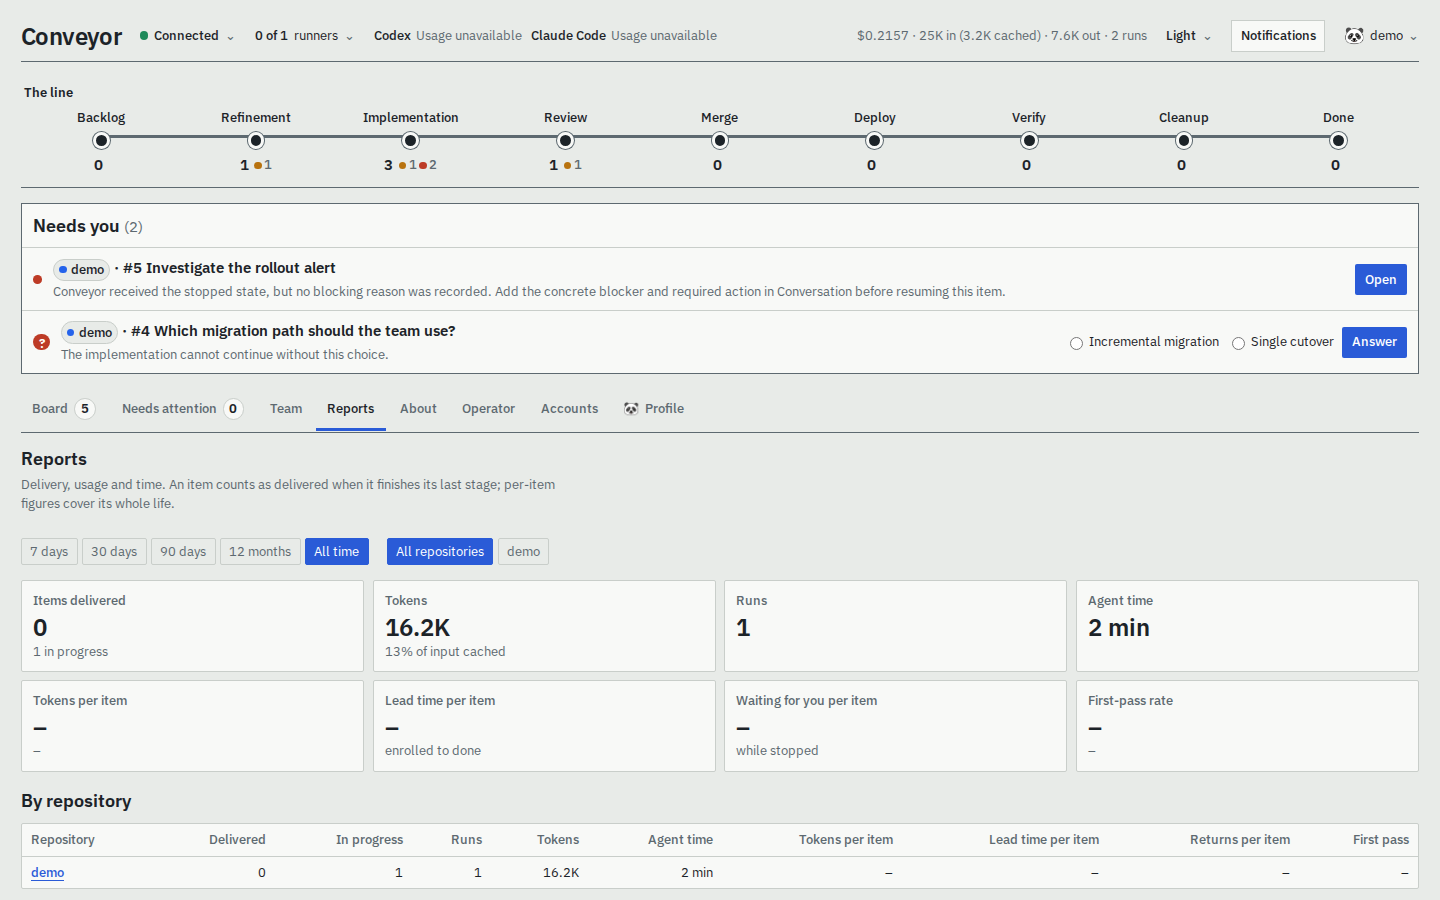
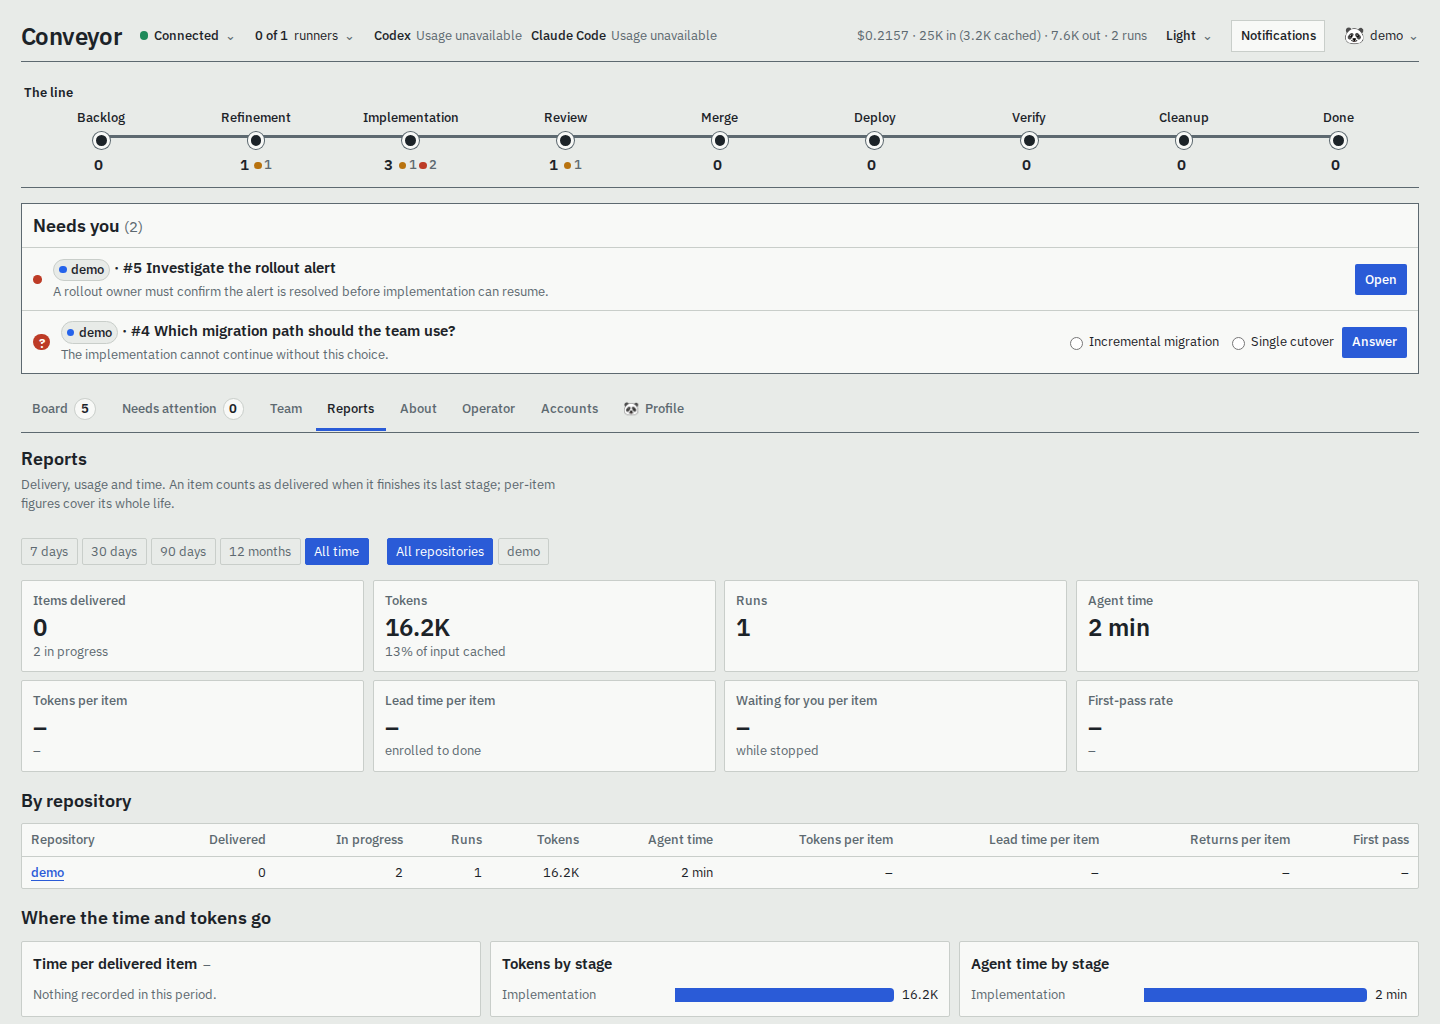
fix: fit dashboard screenshot content

diff --git a/scripts/regenerate-screenshots.ts b/scripts/regenerate-screenshots.ts
@@ -423,6 +423,21 @@ async function seedDemo(home: string): Promise<void> {
       },
     });
     store.completeStageTransition("demo-transition-1");
+    store.beginStageTransition({
+      id: "demo-transition-5",
+      issueId: "demo#5",
+      fromStage: "implementation",
+      toStage: "implementation",
+      kind: "stopped",
+      sourceMutationId: null,
+      detail: {
+        reason: "A rollout owner must confirm the alert is resolved before implementation can resume.",
+        requiredFixes: [],
+        resultStatus: "blocked",
+        actor: { name: "Conveyor", title: "Orchestrator" },
+      },
+    });
+    store.completeStageTransition("demo-transition-5");
   } finally {
     store.close();
   }
@@ -442,10 +457,31 @@ async function stabilize(page: Page): Promise<void> {
 }
 
 async function expectText(page: Page, text: string): Promise<void> {
-  await page
+  const element = page
     .getByText(text, { exact: false })
-    .first()
-    .waitFor({ state: "visible", timeout: 10_000 });
+    .first();
+  await element.waitFor({ state: "visible", timeout: 10_000 });
+  const bounds = await element.evaluate((node) => {
+    const { bottom, top } = node.getBoundingClientRect();
+    return { bottom, top, viewportHeight: window.innerHeight };
+  });
+  if (bounds.top < 0 || bounds.bottom > bounds.viewportHeight) {
+    throw new Error(`Primary content is clipped: ${text}`);
+  }
+}
+
+async function expectCardsToFitViewport(page: Page): Promise<void> {
+  const clipped = await page.locator("article[data-issue-id]").evaluateAll((cards) =>
+    cards.flatMap((card) => {
+      const { bottom, top } = card.getBoundingClientRect();
+      return top < 0 || bottom > window.innerHeight
+        ? [card.getAttribute("data-issue-id") ?? "unknown item"]
+        : [];
+    }),
+  );
+  if (clipped.length > 0) {
+    throw new Error(`Board cards extend beyond the capture viewport: ${clipped.join(", ")}`);
+  }
 }
 
 async function capture(
@@ -457,8 +493,9 @@ async function capture(
 ): Promise<void> {
   await page.goto(`${baseUrl}${route}`, { waitUntil: "domcontentloaded" });
   await page.locator("main").waitFor({ state: "visible", timeout: 10_000 });
-  for (const text of expected) await expectText(page, text);
   await stabilize(page);
+  for (const text of expected) await expectText(page, text);
+  if (name === "board") await expectCardsToFitViewport(page);
   await page.screenshot({ path: path.join(OUTPUT_DIRECTORY, `${name}.png`) });
 }
 
@@ -494,7 +531,7 @@ async function main(): Promise<void> {
 
     browser = await chromium.launch({ headless: true });
     const context = await browser.newContext({
-      viewport: { width: 1440, height: 900 },
+      viewport: { width: 1440, height: 1024 },
       deviceScaleFactor: 1,
       colorScheme: "light",
       reducedMotion: "reduce",

diff --git a/docs/dashboard.md b/docs/dashboard.md
@@ -4,7 +4,7 @@ The dashboard is where you watch and steer delivery: the board, each item's stor
 
 ## Screenshots
 
-The screenshots below are generated by `bun run docs:screenshots` from isolated demo data whenever the dashboard layout changes. In a fresh checkout, run `bun install --frozen-lockfile` and `bunx playwright install chromium` once, then run the command from the repository root. It starts Conveyor with seeded demo items and captures each view at a fixed 1440×900 viewport. If you change the dashboard layout, regenerate and commit the screenshots in the same pull request; PR Check runs the command twice and verifies pixel-identical images.
+The screenshots below are generated by `bun run docs:screenshots` from isolated demo data whenever the dashboard layout changes. In a fresh checkout, run `bun install --frozen-lockfile` and `bunx playwright install chromium` once, then run the command from the repository root. It starts Conveyor with seeded demo items and captures each view at a fixed 1440×1024 viewport. If you change the dashboard layout, regenerate and commit the screenshots in the same pull request; PR Check runs the command twice and verifies pixel-identical images.
 
 The board shows backlog, configured stages, completed work, active runner capacity, dependency/child relationships, warnings, questions, and per-stage usage (tokens in and out, plus the dollar amount when the harness reports one; subscription harnesses do not). Issue dialogs separate four concerns:
 
@@ -27,7 +27,7 @@ Above the board, every configured agent links to a read-only profile page (`/age
 
 The optional steering agent is intentionally quieter than the technical log. Only explicit MCP progress and the final report are shown; commands, tool calls, raw output, and private reasoning are not rendered.
 
-![The operator answering a question about a stopped item](screenshots/operator.png)
+![The operator reporting the latest delivery activity](screenshots/operator.png)
 
 ## Browser push notifications
 
